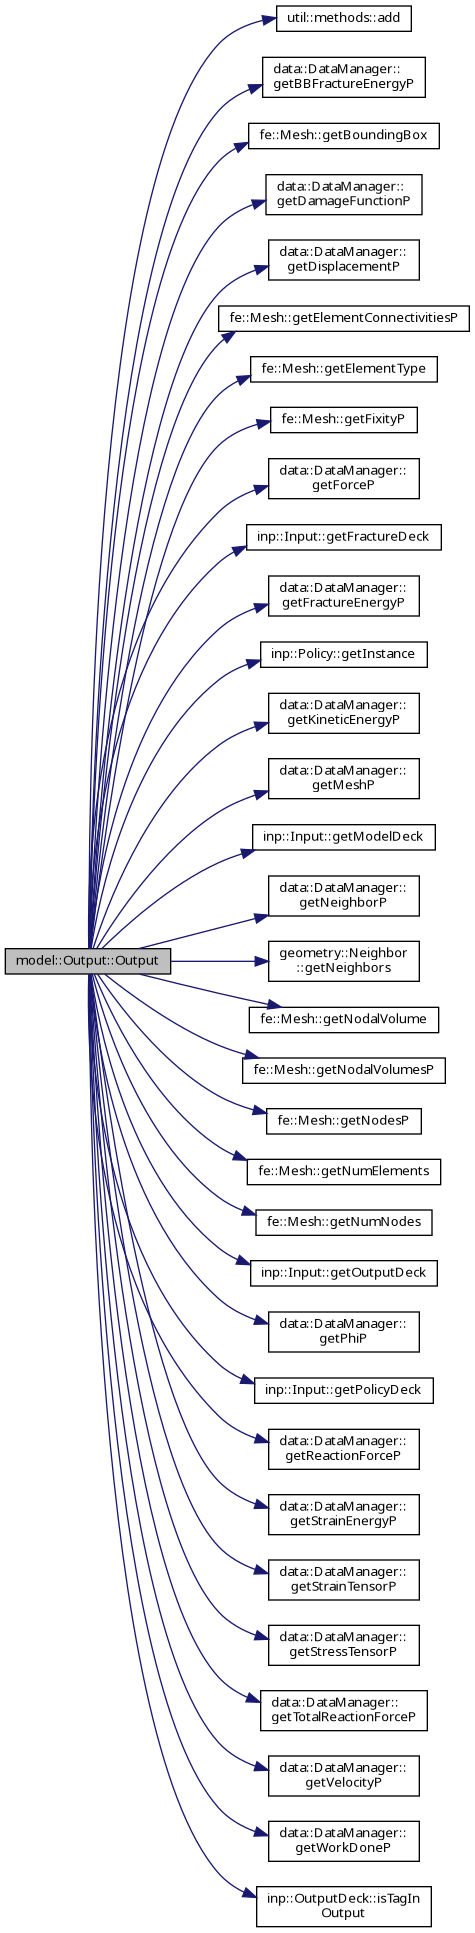
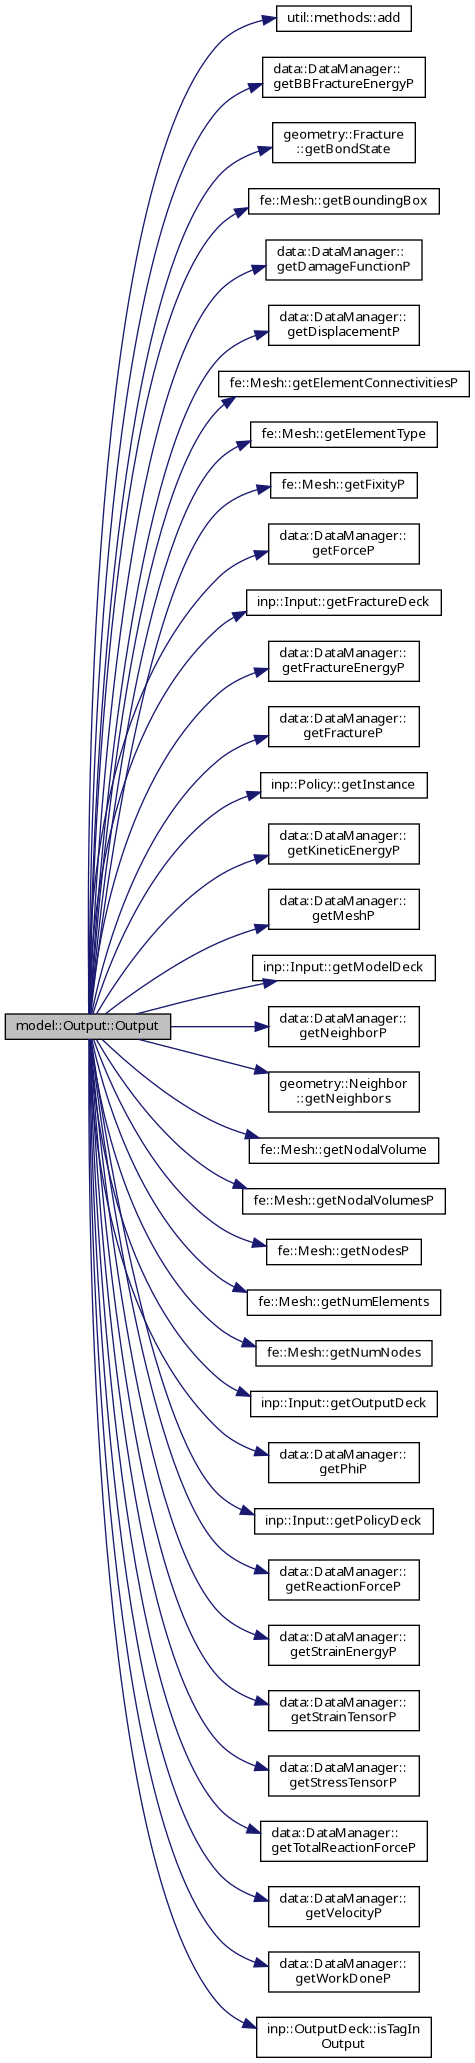
Update documentation [ci skip]

Changed region(s): [[0.1768, 0.0, 1.0, 1.0], [0.5011, 0.9622, 0.5305, 0.9933]]

diff --git a/documentation/classmodel_1_1Output.html b/documentation/classmodel_1_1Output.html
@@ -165,40 +165,42 @@ Here is the call graph for this function:</div>
 <div class="dyncontent">
 <div class="center"><img src="classmodel_1_1Output_a5ac2b02d265f030db8178656bad23f1c_cgraph.png" border="0" usemap="#aclassmodel_1_1Output_a5ac2b02d265f030db8178656bad23f1c_cgraph" alt=""/></div>
 <map name="aclassmodel_1_1Output_a5ac2b02d265f030db8178656bad23f1c_cgraph" id="aclassmodel_1_1Output_a5ac2b02d265f030db8178656bad23f1c_cgraph">
-<area shape="rect" title="Outputs the iteration d_n to the file system." alt="" coords="5,948,171,975"/>
+<area shape="rect" title="Outputs the iteration d_n to the file system." alt="" coords="5,1013,171,1040"/>
 <area shape="rect" href="namespaceutil_1_1methods.html#aee8c26ee115aa22b9a01201068a7eddd" title="Returns the sum of data." alt="" coords="277,5,411,32"/>
 <area shape="rect" href="classdata_1_1DataManager.html#a72f9e790140ca10f0a4fd229980b620f" title=" " alt="" coords="263,57,425,98"/>
-<area shape="rect" href="classfe_1_1Mesh.html#a1187b24abeaba02006f5faf2dc7e2051" title="Get the bounding box of the mesh." alt="" coords="249,123,439,149"/>
-<area shape="rect" href="classdata_1_1DataManager.html#af47d91b3efde8507c684cd124eaecc77" title=" " alt="" coords="266,174,422,215"/>
-<area shape="rect" href="classdata_1_1DataManager.html#a75fb661a152a554182573ce7a9109c22" title=" " alt="" coords="269,239,419,281"/>
-<area shape="rect" href="classfe_1_1Mesh.html#a6bab24fe3bb2968578a9ef3b3244d032" title="Get the pointer to element&#45;node connectivity data." alt="" coords="219,305,469,332"/>
-<area shape="rect" href="classfe_1_1Mesh.html#a55b3e75c83f467a678b3f775a6ac0dec" title="Get the type of element in mesh." alt="" coords="251,356,437,383"/>
-<area shape="rect" href="classfe_1_1Mesh.html#a3d2afb2a41ed63c2abc0cf3de7752cd1" title="Get the pointer to fixity data." alt="" coords="271,407,417,433"/>
-<area shape="rect" href="classdata_1_1DataManager.html#a8954509ae92c1e5fd3f4571d7633cc71" title=" " alt="" coords="269,458,419,499"/>
-<area shape="rect" href="classinp_1_1Input.html#a56be23f30559d9b12c40065ee705cb6f" title="Get the pointer to fracture deck." alt="" coords="247,524,441,551"/>
-<area shape="rect" href="classdata_1_1DataManager.html#a6fdfba70eece5354984cfa9e9077491a" title=" " alt="" coords="269,575,419,617"/>
-<area shape="rect" href="classinp_1_1Policy.html#a879f83a83b931d42e1c63ddf3d420bd5" title="Returns the pointer to static class. Creates instance in its first call." alt="" coords="261,641,427,668"/>
-<area shape="rect" href="classdata_1_1DataManager.html#a6b02ba5bad9b482a6a6414ebde7e96bf" title=" " alt="" coords="269,693,419,734"/>
-<area shape="rect" href="classdata_1_1DataManager.html#af27bebcc8dfdc726e13dc4b87fe18c74" title=" " alt="" coords="269,758,419,799"/>
-<area shape="rect" href="classinp_1_1Input.html#a3d128b0715d8749851a9ea324901feee" title="Get the pointer to model deck." alt="" coords="253,824,435,851"/>
-<area shape="rect" href="classdata_1_1DataManager.html#ab7d6b17f07d69e15fee1940854b2bd30" title=" " alt="" coords="269,875,419,917"/>
-<area shape="rect" href="classgeometry_1_1Neighbor.html#ab642847e35e9192031dd7ee5b9044794" title="Get neighbor list of node i (element i in case of weak_finite_element)" alt="" coords="269,941,419,982"/>
-<area shape="rect" href="classfe_1_1Mesh.html#a4686f1e5d779f069b17b701bbf8a9739" title="Get nodal volume of node i." alt="" coords="249,1007,439,1033"/>
-<area shape="rect" href="classfe_1_1Mesh.html#a5e03e3afc9049de3a2cdc24717613938" title="Get the pointer to nodal volume data." alt="" coords="243,1057,445,1084"/>
-<area shape="rect" href="classfe_1_1Mesh.html#a15d5fd53a073ca3c01daf32ff4c7a783" title="Get the pointer to nodes data." alt="" coords="267,1108,421,1135"/>
-<area shape="rect" href="classfe_1_1Mesh.html#ab168daf41aec75099948a519d1a252ad" title="Get the number of elements." alt="" coords="247,1159,441,1185"/>
-<area shape="rect" href="classfe_1_1Mesh.html#aac3df3472139b865eda7406c1d1c3d77" title="Get the number of nodes." alt="" coords="256,1209,432,1236"/>
-<area shape="rect" href="classinp_1_1Input.html#adba3bd4234a82bc3d4770e5bc9aae988" title="Get the pointer to output deck." alt="" coords="251,1260,437,1287"/>
-<area shape="rect" href="classdata_1_1DataManager.html#a7ed1392a43568241460803239ff40bc0" title=" " alt="" coords="269,1311,419,1353"/>
-<area shape="rect" href="classinp_1_1Input.html#ae4e9b96a0cdf59079f2895ceb31783ba" title="Get the pointer to policy info deck." alt="" coords="255,1377,433,1404"/>
-<area shape="rect" href="classdata_1_1DataManager.html#ae7b4b4f1a8c0b54fa17708352d3ad347" title=" " alt="" coords="269,1429,419,1470"/>
-<area shape="rect" href="classdata_1_1DataManager.html#aa7a855f805e351910e04218e7e1de243" title=" " alt="" coords="269,1494,419,1535"/>
-<area shape="rect" href="classdata_1_1DataManager.html#a9f5a02b5745e77064772319283792e93" title=" " alt="" coords="269,1559,419,1601"/>
-<area shape="rect" href="classdata_1_1DataManager.html#aa76735af9f4517614e5239ae4eba430c" title=" " alt="" coords="269,1625,419,1666"/>
-<area shape="rect" href="classdata_1_1DataManager.html#a127ee63128d3ca22b20a5fda157a28a0" title=" " alt="" coords="261,1690,427,1731"/>
-<area shape="rect" href="classdata_1_1DataManager.html#abe1ceca0b9737d8540515150c6648ab9" title=" " alt="" coords="269,1755,419,1797"/>
-<area shape="rect" href="classdata_1_1DataManager.html#a4b576ac4d62a613670f4eced59d8a510" title=" " alt="" coords="269,1821,419,1862"/>
-<area shape="rect" href="structinp_1_1OutputDeck.html#ae4efd03aefc808dd16785ee063f626a4" title="Searches list of tags and returns true if the asked tag is in the list." alt="" coords="257,1886,431,1927"/>
+<area shape="rect" href="classgeometry_1_1Fracture.html#ae2219abc0386e6709268ac981f27e2c2" title="Read bond state." alt="" coords="273,122,415,163"/>
+<area shape="rect" href="classfe_1_1Mesh.html#a1187b24abeaba02006f5faf2dc7e2051" title="Get the bounding box of the mesh." alt="" coords="249,188,439,215"/>
+<area shape="rect" href="classdata_1_1DataManager.html#af47d91b3efde8507c684cd124eaecc77" title=" " alt="" coords="266,239,422,281"/>
+<area shape="rect" href="classdata_1_1DataManager.html#a75fb661a152a554182573ce7a9109c22" title=" " alt="" coords="269,305,419,346"/>
+<area shape="rect" href="classfe_1_1Mesh.html#a6bab24fe3bb2968578a9ef3b3244d032" title="Get the pointer to element&#45;node connectivity data." alt="" coords="219,371,469,397"/>
+<area shape="rect" href="classfe_1_1Mesh.html#a55b3e75c83f467a678b3f775a6ac0dec" title="Get the type of element in mesh." alt="" coords="251,421,437,448"/>
+<area shape="rect" href="classfe_1_1Mesh.html#a3d2afb2a41ed63c2abc0cf3de7752cd1" title="Get the pointer to fixity data." alt="" coords="271,472,417,499"/>
+<area shape="rect" href="classdata_1_1DataManager.html#a8954509ae92c1e5fd3f4571d7633cc71" title=" " alt="" coords="269,523,419,565"/>
+<area shape="rect" href="classinp_1_1Input.html#a56be23f30559d9b12c40065ee705cb6f" title="Get the pointer to fracture deck." alt="" coords="247,589,441,616"/>
+<area shape="rect" href="classdata_1_1DataManager.html#a6fdfba70eece5354984cfa9e9077491a" title=" " alt="" coords="269,641,419,682"/>
+<area shape="rect" href="classdata_1_1DataManager.html#abebf433e93f1c426d70173686f4f5190" title=" " alt="" coords="269,706,419,747"/>
+<area shape="rect" href="classinp_1_1Policy.html#a879f83a83b931d42e1c63ddf3d420bd5" title="Returns the pointer to static class. Creates instance in its first call." alt="" coords="261,772,427,799"/>
+<area shape="rect" href="classdata_1_1DataManager.html#a6b02ba5bad9b482a6a6414ebde7e96bf" title=" " alt="" coords="269,823,419,865"/>
+<area shape="rect" href="classdata_1_1DataManager.html#af27bebcc8dfdc726e13dc4b87fe18c74" title=" " alt="" coords="269,889,419,930"/>
+<area shape="rect" href="classinp_1_1Input.html#a3d128b0715d8749851a9ea324901feee" title="Get the pointer to model deck." alt="" coords="253,955,435,981"/>
+<area shape="rect" href="classdata_1_1DataManager.html#ab7d6b17f07d69e15fee1940854b2bd30" title=" " alt="" coords="269,1006,419,1047"/>
+<area shape="rect" href="classgeometry_1_1Neighbor.html#ab642847e35e9192031dd7ee5b9044794" title="Get neighbor list of node i (element i in case of weak_finite_element)" alt="" coords="269,1071,419,1113"/>
+<area shape="rect" href="classfe_1_1Mesh.html#a4686f1e5d779f069b17b701bbf8a9739" title="Get nodal volume of node i." alt="" coords="249,1137,439,1164"/>
+<area shape="rect" href="classfe_1_1Mesh.html#a5e03e3afc9049de3a2cdc24717613938" title="Get the pointer to nodal volume data." alt="" coords="243,1188,445,1215"/>
+<area shape="rect" href="classfe_1_1Mesh.html#a15d5fd53a073ca3c01daf32ff4c7a783" title="Get the pointer to nodes data." alt="" coords="267,1239,421,1265"/>
+<area shape="rect" href="classfe_1_1Mesh.html#ab168daf41aec75099948a519d1a252ad" title="Get the number of elements." alt="" coords="247,1289,441,1316"/>
+<area shape="rect" href="classfe_1_1Mesh.html#aac3df3472139b865eda7406c1d1c3d77" title="Get the number of nodes." alt="" coords="256,1340,432,1367"/>
+<area shape="rect" href="classinp_1_1Input.html#adba3bd4234a82bc3d4770e5bc9aae988" title="Get the pointer to output deck." alt="" coords="251,1391,437,1417"/>
+<area shape="rect" href="classdata_1_1DataManager.html#a7ed1392a43568241460803239ff40bc0" title=" " alt="" coords="269,1442,419,1483"/>
+<area shape="rect" href="classinp_1_1Input.html#ae4e9b96a0cdf59079f2895ceb31783ba" title="Get the pointer to policy info deck." alt="" coords="255,1508,433,1535"/>
+<area shape="rect" href="classdata_1_1DataManager.html#ae7b4b4f1a8c0b54fa17708352d3ad347" title=" " alt="" coords="269,1559,419,1601"/>
+<area shape="rect" href="classdata_1_1DataManager.html#aa7a855f805e351910e04218e7e1de243" title=" " alt="" coords="269,1625,419,1666"/>
+<area shape="rect" href="classdata_1_1DataManager.html#a9f5a02b5745e77064772319283792e93" title=" " alt="" coords="269,1690,419,1731"/>
+<area shape="rect" href="classdata_1_1DataManager.html#aa76735af9f4517614e5239ae4eba430c" title=" " alt="" coords="269,1755,419,1797"/>
+<area shape="rect" href="classdata_1_1DataManager.html#a127ee63128d3ca22b20a5fda157a28a0" title=" " alt="" coords="261,1821,427,1862"/>
+<area shape="rect" href="classdata_1_1DataManager.html#abe1ceca0b9737d8540515150c6648ab9" title=" " alt="" coords="269,1886,419,1927"/>
+<area shape="rect" href="classdata_1_1DataManager.html#a4b576ac4d62a613670f4eced59d8a510" title=" " alt="" coords="269,1951,419,1993"/>
+<area shape="rect" href="structinp_1_1OutputDeck.html#ae4efd03aefc808dd16785ee063f626a4" title="Searches list of tags and returns true if the asked tag is in the list." alt="" coords="257,2017,431,2058"/>
 </map>
 </div>
 

diff --git a/documentation/src_2model_2util_8h_source.html b/documentation/src_2model_2util_8h_source.html
@@ -110,38 +110,39 @@ $(document).ready(function(){initNavTree('src_2model_2util_8h_source.html',''); 
 <div class="line"><a name="l00023"></a><span class="lineno">   23</span>&#160;<span class="preprocessor">#include &quot;util/point.h&quot;</span></div>
 <div class="line"><a name="l00024"></a><span class="lineno">   24</span>&#160;<span class="preprocessor">#include &quot;inp/policy.h&quot;</span></div>
 <div class="line"><a name="l00025"></a><span class="lineno">   25</span>&#160;<span class="preprocessor">#include &quot;geometry/neighbor.h&quot;</span></div>
-<div class="line"><a name="l00026"></a><span class="lineno">   26</span>&#160; </div>
+<div class="line"><a name="l00026"></a><span class="lineno">   26</span>&#160;<span class="preprocessor">#include &quot;geometry/fracture.h&quot;</span></div>
 <div class="line"><a name="l00027"></a><span class="lineno">   27</span>&#160; </div>
-<div class="line"><a name="l00028"></a><span class="lineno">   28</span>&#160;<span class="keyword">namespace </span><a class="code" href="namespaceinp.html">inp</a> {</div>
-<div class="line"><a name="l00029"></a><span class="lineno">   29</span>&#160;<span class="keyword">struct </span>ModelDeck;</div>
-<div class="line"><a name="l00030"></a><span class="lineno">   30</span>&#160;<span class="keyword">struct </span>OutputDeck;</div>
-<div class="line"><a name="l00031"></a><span class="lineno">   31</span>&#160;<span class="keyword">struct </span>MeshDeck;</div>
-<div class="line"><a name="l00032"></a><span class="lineno">   32</span>&#160;<span class="keyword">struct </span>PolicyDeck;</div>
-<div class="line"><a name="l00033"></a><span class="lineno">   33</span>&#160;<span class="keyword">struct </span>RestartDeck;</div>
-<div class="line"><a name="l00034"></a><span class="lineno">   34</span>&#160;<span class="keyword">class </span>Policy;</div>
-<div class="line"><a name="l00035"></a><span class="lineno">   35</span>&#160;} <span class="comment">// namespace inp</span></div>
-<div class="line"><a name="l00036"></a><span class="lineno">   36</span>&#160; </div>
-<div class="line"><a name="l00037"></a><span class="lineno">   37</span>&#160;<span class="keyword">namespace </span><a class="code" href="namespacefe.html">fe</a> {</div>
-<div class="line"><a name="l00038"></a><span class="lineno">   38</span>&#160;<span class="keyword">class </span>Mesh;</div>
-<div class="line"><a name="l00039"></a><span class="lineno">   39</span>&#160;<span class="comment">// class Quadrature;</span></div>
-<div class="line"><a name="l00040"></a><span class="lineno">   40</span>&#160;}<span class="comment">// namespace fe</span></div>
-<div class="line"><a name="l00041"></a><span class="lineno">   41</span>&#160; </div>
-<div class="line"><a name="l00042"></a><span class="lineno">   42</span>&#160;<span class="keyword">namespace </span><a class="code" href="namespacemodel.html">model</a> {</div>
-<div class="line"><a name="l00043"></a><span class="lineno">   43</span>&#160; </div>
-<div class="line"><a name="l00045"></a><span class="lineno"><a class="line" href="classmodel_1_1Output.html">   45</a></span>&#160;<span class="keyword">class </span><a class="code" href="classmodel_1_1Output.html">Output</a>{</div>
-<div class="line"><a name="l00046"></a><span class="lineno">   46</span>&#160; </div>
-<div class="line"><a name="l00047"></a><span class="lineno">   47</span>&#160;<span class="keyword">public</span>:  </div>
-<div class="line"><a name="l00048"></a><span class="lineno">   48</span>&#160; </div>
-<div class="line"><a name="l00056"></a><span class="lineno">   56</span>&#160;<a class="code" href="classmodel_1_1Output.html#a5ac2b02d265f030db8178656bad23f1c">Output</a>(<a class="code" href="classinp_1_1Input.html">inp::Input</a> *d_input_p,<a class="code" href="classdata_1_1DataManager.html">data::DataManager</a> *d_dataManager_p, <span class="keywordtype">size_t</span> d_n, <span class="keywordtype">double</span> d_time);</div>
-<div class="line"><a name="l00057"></a><span class="lineno">   57</span>&#160; </div>
-<div class="line"><a name="l00058"></a><span class="lineno">   58</span>&#160;};</div>
-<div class="line"><a name="l00059"></a><span class="lineno">   59</span>&#160; </div>
-<div class="line"><a name="l00060"></a><span class="lineno">   60</span>&#160;}</div>
-<div class="line"><a name="l00061"></a><span class="lineno">   61</span>&#160; </div>
-<div class="line"><a name="l00062"></a><span class="lineno">   62</span>&#160;<span class="preprocessor">#endif</span></div>
+<div class="line"><a name="l00028"></a><span class="lineno">   28</span>&#160; </div>
+<div class="line"><a name="l00029"></a><span class="lineno">   29</span>&#160;<span class="keyword">namespace </span><a class="code" href="namespaceinp.html">inp</a> {</div>
+<div class="line"><a name="l00030"></a><span class="lineno">   30</span>&#160;<span class="keyword">struct </span>ModelDeck;</div>
+<div class="line"><a name="l00031"></a><span class="lineno">   31</span>&#160;<span class="keyword">struct </span>OutputDeck;</div>
+<div class="line"><a name="l00032"></a><span class="lineno">   32</span>&#160;<span class="keyword">struct </span>MeshDeck;</div>
+<div class="line"><a name="l00033"></a><span class="lineno">   33</span>&#160;<span class="keyword">struct </span>PolicyDeck;</div>
+<div class="line"><a name="l00034"></a><span class="lineno">   34</span>&#160;<span class="keyword">struct </span>RestartDeck;</div>
+<div class="line"><a name="l00035"></a><span class="lineno">   35</span>&#160;<span class="keyword">class </span>Policy;</div>
+<div class="line"><a name="l00036"></a><span class="lineno">   36</span>&#160;} <span class="comment">// namespace inp</span></div>
+<div class="line"><a name="l00037"></a><span class="lineno">   37</span>&#160; </div>
+<div class="line"><a name="l00038"></a><span class="lineno">   38</span>&#160;<span class="keyword">namespace </span><a class="code" href="namespacefe.html">fe</a> {</div>
+<div class="line"><a name="l00039"></a><span class="lineno">   39</span>&#160;<span class="keyword">class </span>Mesh;</div>
+<div class="line"><a name="l00040"></a><span class="lineno">   40</span>&#160;<span class="comment">// class Quadrature;</span></div>
+<div class="line"><a name="l00041"></a><span class="lineno">   41</span>&#160;}<span class="comment">// namespace fe</span></div>
+<div class="line"><a name="l00042"></a><span class="lineno">   42</span>&#160; </div>
+<div class="line"><a name="l00043"></a><span class="lineno">   43</span>&#160;<span class="keyword">namespace </span><a class="code" href="namespacemodel.html">model</a> {</div>
+<div class="line"><a name="l00044"></a><span class="lineno">   44</span>&#160; </div>
+<div class="line"><a name="l00046"></a><span class="lineno"><a class="line" href="classmodel_1_1Output.html">   46</a></span>&#160;<span class="keyword">class </span><a class="code" href="classmodel_1_1Output.html">Output</a>{</div>
+<div class="line"><a name="l00047"></a><span class="lineno">   47</span>&#160; </div>
+<div class="line"><a name="l00048"></a><span class="lineno">   48</span>&#160;<span class="keyword">public</span>:  </div>
+<div class="line"><a name="l00049"></a><span class="lineno">   49</span>&#160; </div>
+<div class="line"><a name="l00057"></a><span class="lineno">   57</span>&#160;<a class="code" href="classmodel_1_1Output.html#a5ac2b02d265f030db8178656bad23f1c">Output</a>(<a class="code" href="classinp_1_1Input.html">inp::Input</a> *d_input_p,<a class="code" href="classdata_1_1DataManager.html">data::DataManager</a> *d_dataManager_p, <span class="keywordtype">size_t</span> d_n, <span class="keywordtype">double</span> d_time);</div>
+<div class="line"><a name="l00058"></a><span class="lineno">   58</span>&#160; </div>
+<div class="line"><a name="l00059"></a><span class="lineno">   59</span>&#160;};</div>
+<div class="line"><a name="l00060"></a><span class="lineno">   60</span>&#160; </div>
+<div class="line"><a name="l00061"></a><span class="lineno">   61</span>&#160;}</div>
+<div class="line"><a name="l00062"></a><span class="lineno">   62</span>&#160; </div>
+<div class="line"><a name="l00063"></a><span class="lineno">   63</span>&#160;<span class="preprocessor">#endif</span></div>
 <div class="ttc" id="aclassdata_1_1DataManager_html"><div class="ttname"><a href="classdata_1_1DataManager.html">data::DataManager</a></div><div class="ttdoc">Data manager to collect the global simulation data.</div><div class="ttdef"><b>Definition:</b> DataManager.h:58</div></div>
 <div class="ttc" id="aclassinp_1_1Input_html"><div class="ttname"><a href="classinp_1_1Input.html">inp::Input</a></div><div class="ttdoc">A class to read input file.</div><div class="ttdef"><b>Definition:</b> input.h:63</div></div>
-<div class="ttc" id="aclassmodel_1_1Output_html"><div class="ttname"><a href="classmodel_1_1Output.html">model::Output</a></div><div class="ttdoc">A class to handle model output.</div><div class="ttdef"><b>Definition:</b> util.h:45</div></div>
+<div class="ttc" id="aclassmodel_1_1Output_html"><div class="ttname"><a href="classmodel_1_1Output.html">model::Output</a></div><div class="ttdoc">A class to handle model output.</div><div class="ttdef"><b>Definition:</b> util.h:46</div></div>
 <div class="ttc" id="aclassmodel_1_1Output_html_a5ac2b02d265f030db8178656bad23f1c"><div class="ttname"><a href="classmodel_1_1Output.html#a5ac2b02d265f030db8178656bad23f1c">model::Output::Output</a></div><div class="ttdeci">Output(inp::Input *d_input_p, data::DataManager *d_dataManager_p, size_t d_n, double d_time)</div><div class="ttdoc">Outputs the iteration d_n to the file system.</div><div class="ttdef"><b>Definition:</b> util.cpp:5</div></div>
 <div class="ttc" id="anamespacefe_html"><div class="ttname"><a href="namespacefe.html">fe</a></div><div class="ttdoc">Collection of methods and data related to finite element and mesh.</div><div class="ttdef"><b>Definition:</b> baseElem.h:15</div></div>
 <div class="ttc" id="anamespaceinp_html"><div class="ttname"><a href="namespaceinp.html">inp</a></div><div class="ttdoc">Collection of methods and database related to input.</div><div class="ttdef"><b>Definition:</b> main.cpp:21</div></div>

diff --git a/documentation/index.html b/documentation/index.html
@@ -107,7 +107,7 @@ Installation</h1>
 <h2><a class="anchor" id="autotoc_md34"></a>
 Build tools</h2>
 <p>The following build tools are needed to compile the PeriHPX and its dependencies:</p><ul>
-<li>GCC compiler collection (gcc) &gt; 4.9, however, gcc &gt;= 8 is recommended</li>
+<li>GCC compiler collection (gcc) &gt; 4.9, however, gcc &gt;= 10 is recommended</li>
 <li><a href="https://www.gnu.org/software/autoconf/">autoconf</a></li>
 <li><a href="https://www.gnu.org/software/wget/">wget</a></li>
 <li><a href="https://cmake.org/">cmake</a></li>
@@ -121,15 +121,15 @@ Build tools</h2>
 </div><!-- fragment --><h2><a class="anchor" id="autotoc_md35"></a>
 Dependencies</h2>
 <p>We use cmake to build the code. We list the dependencies and how they are used in the code below:</p><ul>
-<li><a href="https://cmake.org/">CMake</a> 3.16<ul>
+<li><a href="https://cmake.org/">CMake</a> 3.18<ul>
 <li>To generate makefiles</li>
 </ul>
 </li>
-<li><a href="https://www.boost.org/">Boost</a> 1.75<ul>
+<li><a href="https://www.boost.org/">Boost</a> 1.79<ul>
 <li>Required to build HPX and YAML libraries</li>
 </ul>
 </li>
-<li><a href="https://github.com/STEllAR-GROUP/hpx">HPX</a> 1.6.0<ul>
+<li><a href="https://github.com/STEllAR-GROUP/hpx">HPX</a> 1.7.1<ul>
 <li>Provides methods for multithreading computation</li>
 </ul>
 </li>
@@ -145,11 +145,11 @@ Dependencies</h2>
 <li>Our code directly interfaces with gmsh to use input-ouput functions of gmsh</li>
 </ul>
 </li>
-<li><a href="https://www.vtk.org">VTK</a> 9.0<ul>
+<li><a href="https://www.vtk.org">VTK</a> 9.2<ul>
 <li>For read-write operations on <code>.vtu</code> type files</li>
 </ul>
 </li>
-<li><a href="https://github.com/jbeder/yaml-cpp">YAML-CPP</a> 0.6<ul>
+<li><a href="https://github.com/jbeder/yaml-cpp">YAML-CPP</a> 0.7<ul>
 <li>To parse <code>.yaml</code> input files</li>
 </ul>
 </li>

diff --git a/documentation/classgeometry_1_1Fracture.html b/documentation/classgeometry_1_1Fracture.html
@@ -422,14 +422,15 @@ Here is the call graph for this function:</div>
 </dl>
 <dl class="section return"><dt>Returns</dt><dd>bool True if bond is fractured otherwise false </dd></dl>
 
-<p class="reference">Referenced by <a class="el" href="namespacetest.html#a46f34fecbd424a97d74abf19acf45e84">test::testFracture()</a>.</p>
+<p class="reference">Referenced by <a class="el" href="classmodel_1_1Output.html#a5ac2b02d265f030db8178656bad23f1c">model::Output::Output()</a>, and <a class="el" href="namespacetest.html#a46f34fecbd424a97d74abf19acf45e84">test::testFracture()</a>.</p>
 <div class="dynheader">
 Here is the caller graph for this function:</div>
 <div class="dyncontent">
 <div class="center"><img src="classgeometry_1_1Fracture_ae2219abc0386e6709268ac981f27e2c2_icgraph.png" border="0" usemap="#aclassgeometry_1_1Fracture_ae2219abc0386e6709268ac981f27e2c2_icgraph" alt=""/></div>
 <map name="aclassgeometry_1_1Fracture_ae2219abc0386e6709268ac981f27e2c2_icgraph" id="aclassgeometry_1_1Fracture_ae2219abc0386e6709268ac981f27e2c2_icgraph">
-<area shape="rect" title="Read bond state." alt="" coords="183,5,325,47"/>
-<area shape="rect" href="namespacetest.html#a46f34fecbd424a97d74abf19acf45e84" title="Perform test on Fracture class and check if bit&#45;wise functions are working correctly." alt="" coords="5,13,135,39"/>
+<area shape="rect" title="Read bond state." alt="" coords="219,23,361,65"/>
+<area shape="rect" href="classmodel_1_1Output.html#a5ac2b02d265f030db8178656bad23f1c" title="Outputs the iteration d_n to the file system." alt="" coords="5,5,171,32"/>
+<area shape="rect" href="namespacetest.html#a46f34fecbd424a97d74abf19acf45e84" title="Perform test on Fracture class and check if bit&#45;wise functions are working correctly." alt="" coords="23,56,153,83"/>
 </map>
 </div>
 

diff --git a/documentation/md_content_yaml_options.html b/documentation/md_content_yaml_options.html
@@ -195,7 +195,20 @@ Output</h2>
 <li><code>Path</code> Defines the path were the output is written to</li>
 <li><code>Compress_Type</code> Defines the compression type for the vtu file (<code>zlib</code> or <code>ascii</code>)</li>
 <li><code>Output_Interval</code> Defines the interval a output file is written</li>
-<li><code>Tag</code> Defines the field appended to the out file. The mesh is always added and all other simulation data needs to be listed.</li>
+<li><code>Tag</code> Defines the field appended to the out file. The mesh is always added and all other simulation data needs to be listed. Yhe following tags are available:<ul>
+<li><code>Force_Density</code> Peridynamic force density (vetor)</li>
+<li><code>Strain_Energy</code> Peridynamic strain energey (scalar)</li>
+<li><code>Fixity</code> Nodes with applied non-local boundary conditions (scalar)</li>
+<li><code>Node_Volume</code> Volumes of the discrete nodes (scalar)</li>
+<li><code>Neighbors</code> Initial number of neighbors without applying the initial cracks (scalar)</li>
+<li><code>Neighbors_Crack</code> Initial number of neighbors with applying the initial cracks (scalar)</li>
+<li><code>Broken_Bonds</code> Broken bonds per node (scalar)</li>
+<li><code>Strain_Tensor</code> Strain tensor for state-based PD models</li>
+<li><code>Stress_Tensor</code> Stress tensor for state-based PD models</li>
+<li><code>Displacement</code> Peridynamic displacement field (vector)</li>
+<li><code>Initial_Crack</code> write a file for each intital crack with a line for visualization</li>
+</ul>
+</li>
 <li><code>Perform_FE_Out</code> Store the mesh information in the output</li>
 </ul>
 <h2><a class="anchor" id="autotoc_md24"></a>

diff --git a/documentation/navtreeindex2.js b/documentation/navtreeindex2.js
@@ -1,8 +1,5 @@
 var NAVTREEINDEX2 =
 {
-"classmaterial_1_1pd_1_1RNPBond.html#a2902466ba289e62b65dfbe74e7e4cd1d":[8,0,5,0,6,4],
-"classmaterial_1_1pd_1_1RNPBond.html#a2a4b964b8e30bfaa2f8645bc5e7f9c2c":[8,0,5,0,6,12],
-"classmaterial_1_1pd_1_1RNPBond.html#a2cbf5a6ba89d59dcbb13a6a9fdad0c48":[8,0,5,0,6,3],
 "classmaterial_1_1pd_1_1RNPBond.html#a340769e5a29c159758c79284344606c9":[8,0,5,0,6,20],
 "classmaterial_1_1pd_1_1RNPBond.html#a555780b70d1ccc1baed1e530a6925b78":[8,0,5,0,6,18],
 "classmaterial_1_1pd_1_1RNPBond.html#a5c3f0bd34e37074edda9b9cc42bb758f":[8,0,5,0,6,1],
@@ -249,5 +246,8 @@ var NAVTREEINDEX2 =
 "classtools_1_1pp_1_1Compute.html#adfaeaf924b93686b7cbd005afa76eec1":[8,0,8,0,0,42],
 "classtools_1_1pp_1_1Compute.html#ae093defa8e61304adca9113b32a181e5":[8,0,8,0,0,2],
 "classtools_1_1pp_1_1Compute.html#ae273de18ccdba24eb983d4532bc91a15":[8,0,8,0,0,49],
-"classtools_1_1pp_1_1Compute.html#ae4bbee17fc3308cc3d7ceb8f0a8d7128":[8,0,8,0,0,39]
+"classtools_1_1pp_1_1Compute.html#ae4bbee17fc3308cc3d7ceb8f0a8d7128":[8,0,8,0,0,39],
+"classtools_1_1pp_1_1Compute.html#ae4e5925c4be2bde7d2212938d66634eb":[8,0,8,0,0,15],
+"classtools_1_1pp_1_1Compute.html#aeea0793aa34094b9282392203f22ac3e":[8,0,8,0,0,54],
+"classtools_1_1pp_1_1Compute.html#af11c37c442bd494a7514306505f00383":[8,0,8,0,0,5]
 };

diff --git a/documentation/navtreeindex1.js b/documentation/navtreeindex1.js
@@ -1,8 +1,5 @@
 var NAVTREEINDEX1 =
 {
-"classfe_1_1TriElem.html#ababf2fd56dbfa0d40e8808ee6526c5f2":[8,0,1,7,9],
-"classfe_1_1TriElem.html#ad83ac79ee69ae64b452caadf331f90fd":[8,0,1,7,12],
-"classfe_1_1TriElem.html#ad9ee36384ad54b3cab72215fc5fbd096":[8,0,1,7,6],
 "classfe_1_1TriElem.html#af9752d0cc25622f593ee8ac19fd990b3":[8,0,1,7,0],
 "classgeometry_1_1BaseInterior.html":[8,0,2,0],
 "classgeometry_1_1BaseInterior.html#a5eff39f16901c25a1209ecaec672b9d8":[8,0,2,0,1],
@@ -249,5 +246,8 @@ var NAVTREEINDEX1 =
 "classmaterial_1_1pd_1_1RNPBond.html#a02daeab156bedd9b0202de5ad09329de":[8,0,5,0,6,7],
 "classmaterial_1_1pd_1_1RNPBond.html#a02f1c68c92b601ffa66432220428b497":[8,0,5,0,6,10],
 "classmaterial_1_1pd_1_1RNPBond.html#a06fe16909edf9f8ffe324aa47109ab4c":[8,0,5,0,6,16],
-"classmaterial_1_1pd_1_1RNPBond.html#a225c1cbdebdc3dc24f5364d0738731e6":[8,0,5,0,6,25]
+"classmaterial_1_1pd_1_1RNPBond.html#a225c1cbdebdc3dc24f5364d0738731e6":[8,0,5,0,6,25],
+"classmaterial_1_1pd_1_1RNPBond.html#a2902466ba289e62b65dfbe74e7e4cd1d":[8,0,5,0,6,4],
+"classmaterial_1_1pd_1_1RNPBond.html#a2a4b964b8e30bfaa2f8645bc5e7f9c2c":[8,0,5,0,6,12],
+"classmaterial_1_1pd_1_1RNPBond.html#a2cbf5a6ba89d59dcbb13a6a9fdad0c48":[8,0,5,0,6,3]
 };

diff --git a/documentation/classdata_1_1DataManager.html b/documentation/classdata_1_1DataManager.html
@@ -645,6 +645,17 @@ Here is the caller graph for this function:</div>
 </div><div class="memdoc">
 <p>Get the pointer to the mesh object </p><dl class="section return"><dt>Returns</dt><dd>pointer </dd></dl>
 
+<p class="reference">Referenced by <a class="el" href="classmodel_1_1Output.html#a5ac2b02d265f030db8178656bad23f1c">model::Output::Output()</a>.</p>
+<div class="dynheader">
+Here is the caller graph for this function:</div>
+<div class="dyncontent">
+<div class="center"><img src="classdata_1_1DataManager_abebf433e93f1c426d70173686f4f5190_icgraph.png" border="0" usemap="#aclassdata_1_1DataManager_abebf433e93f1c426d70173686f4f5190_icgraph" alt=""/></div>
+<map name="aclassdata_1_1DataManager_abebf433e93f1c426d70173686f4f5190_icgraph" id="aclassdata_1_1DataManager_abebf433e93f1c426d70173686f4f5190_icgraph">
+<area shape="rect" title=" " alt="" coords="219,5,369,47"/>
+<area shape="rect" href="classmodel_1_1Output.html#a5ac2b02d265f030db8178656bad23f1c" title="Outputs the iteration d_n to the file system." alt="" coords="5,13,171,39"/>
+</map>
+</div>
+
 </div>
 </div>
 <a id="a13ef5c1ea08a03e0e7fe13d5629baadb"></a>

diff --git a/documentation/navtreeindex5.js b/documentation/navtreeindex5.js
@@ -1,8 +1,5 @@
 var NAVTREEINDEX5 =
 {
-"structinp_1_1FractureDeck.html":[6,2,1],
-"structinp_1_1FractureDeck.html#a1442cd1b7f550cb96b7980271ef8c05c":[6,2,1,3],
-"structinp_1_1FractureDeck.html#a1507fd1e760b80546744ff50c7ef25de":[6,2,1,2],
 "structinp_1_1FractureDeck.html#ab909dd11a1a540e1c327d7d114477591":[6,2,1,0],
 "structinp_1_1FractureDeck.html#accbecb0d057791c01f9c13deb1143ee4":[6,2,1,1],
 "structinp_1_1ICData.html":[8,0,3,5],
@@ -249,5 +246,8 @@ var NAVTREEINDEX5 =
 "structutil_1_1Matrix3.html":[8,0,9,0],
 "structutil_1_1Matrix3.html#a01d19862eca85b4bdd99da6cfc8a033d":[8,0,9,0,15],
 "structutil_1_1Matrix3.html#a0ed74445ede833f02dd62475b6707fc9":[8,0,9,0,0],
-"structutil_1_1Matrix3.html#a15ba403b2397981139ad024945ff3f00":[8,0,9,0,4]
+"structutil_1_1Matrix3.html#a15ba403b2397981139ad024945ff3f00":[8,0,9,0,4],
+"structutil_1_1Matrix3.html#a2c94bd0ecfc4865948feb3742201a4ff":[8,0,9,0,2],
+"structutil_1_1Matrix3.html#a3b7572051830b7826f372eefcc0a4815":[8,0,9,0,12],
+"structutil_1_1Matrix3.html#a556ba71d9b9913c29638c2a32eca20f4":[8,0,9,0,9]
 };

diff --git a/documentation/navtreeindex3.js b/documentation/navtreeindex3.js
@@ -1,8 +1,5 @@
 var NAVTREEINDEX3 =
 {
-"classtools_1_1pp_1_1Compute.html#ae4e5925c4be2bde7d2212938d66634eb":[8,0,8,0,0,15],
-"classtools_1_1pp_1_1Compute.html#aeea0793aa34094b9282392203f22ac3e":[8,0,8,0,0,54],
-"classtools_1_1pp_1_1Compute.html#af11c37c442bd494a7514306505f00383":[8,0,8,0,0,5],
 "classtools_1_1pp_1_1Compute.html#af2b103439ece2e5e572d538bb44c4596":[8,0,8,0,0,29],
 "classtools_1_1pp_1_1Compute.html#afe3edafd8eb6ce3dd4388898f7fd8550":[8,0,8,0,0,45],
 "classtools_1_1pp_1_1Compute.html#aff23b67d63734646eb7b47992aaa1416":[8,0,8,0,0,17],
@@ -249,5 +246,8 @@ var NAVTREEINDEX3 =
 "md_content_yaml_options.html#autotoc_md22":[3,1,2],
 "md_content_yaml_options.html#autotoc_md23":[3,1,3],
 "md_content_yaml_options.html#autotoc_md24":[3,1,4],
-"md_content_yaml_options.html#autotoc_md25":[3,1,5]
+"md_content_yaml_options.html#autotoc_md25":[3,1,5],
+"meshDeck_8h_source.html":[9,0,0,3,0,7],
+"mesh_8h_source.html":[9,0,0,1,3],
+"modelDeck_8h_source.html":[9,0,0,3,0,8]
 };

diff --git a/documentation/navtreeindex4.js b/documentation/navtreeindex4.js
@@ -1,8 +1,5 @@
 var NAVTREEINDEX4 =
 {
-"meshDeck_8h_source.html":[9,0,0,3,0,7],
-"mesh_8h_source.html":[9,0,0,1,3],
-"modelDeck_8h_source.html":[9,0,0,3,0,8],
 "model_8h_source.html":[9,0,0,6,2],
 "models_8h_source.html":[9,0,0,6,3],
 "modules.html":[6],
@@ -249,5 +246,8 @@ var NAVTREEINDEX4 =
 "structinp_1_1EdgeCrack.html#ae8f168627cf6d7e3fef92cf6dc7ada3f":[8,0,3,3,15],
 "structinp_1_1EdgeCrack.html#af88551e893b53b6826ca5a7e84a143fe":[8,0,3,3,24],
 "structinp_1_1EdgeCrack.html#afae4f880d84681c7bcca563fb35ee54d":[8,0,3,3,6],
-"structinp_1_1EdgeCrack.html#afc976fc6b99ec2ea418772e9fa66616b":[8,0,3,3,19]
+"structinp_1_1EdgeCrack.html#afc976fc6b99ec2ea418772e9fa66616b":[8,0,3,3,19],
+"structinp_1_1FractureDeck.html":[6,2,1],
+"structinp_1_1FractureDeck.html#a1442cd1b7f550cb96b7980271ef8c05c":[6,2,1,3],
+"structinp_1_1FractureDeck.html#a1507fd1e760b80546744ff50c7ef25de":[6,2,1,2]
 };

diff --git a/documentation/navtreedata.js b/documentation/navtreedata.js
@@ -111,13 +111,13 @@ var NAVTREE =
 
 var NAVTREEINDEX =
 [
-"",
-"classfe_1_1TriElem.html#ababf2fd56dbfa0d40e8808ee6526c5f2",
-"classmaterial_1_1pd_1_1RNPBond.html#a2902466ba289e62b65dfbe74e7e4cd1d",
-"classtools_1_1pp_1_1Compute.html#ae4e5925c4be2bde7d2212938d66634eb",
-"meshDeck_8h_source.html",
-"structinp_1_1FractureDeck.html",
-"structutil_1_1Matrix3.html#a2c94bd0ecfc4865948feb3742201a4ff"
+"Config_8h_source.html",
+"classfe_1_1TriElem.html#af9752d0cc25622f593ee8ac19fd990b3",
+"classmaterial_1_1pd_1_1RNPBond.html#a340769e5a29c159758c79284344606c9",
+"classtools_1_1pp_1_1Compute.html#af2b103439ece2e5e572d538bb44c4596",
+"model_8h_source.html",
+"structinp_1_1FractureDeck.html#ab909dd11a1a540e1c327d7d114477591",
+"structutil_1_1Matrix3.html#a5d3c4f935acfbb614820ab1d10900e41"
 ];
 
 var SYNCONMSG = 'click to disable panel synchronisation';
